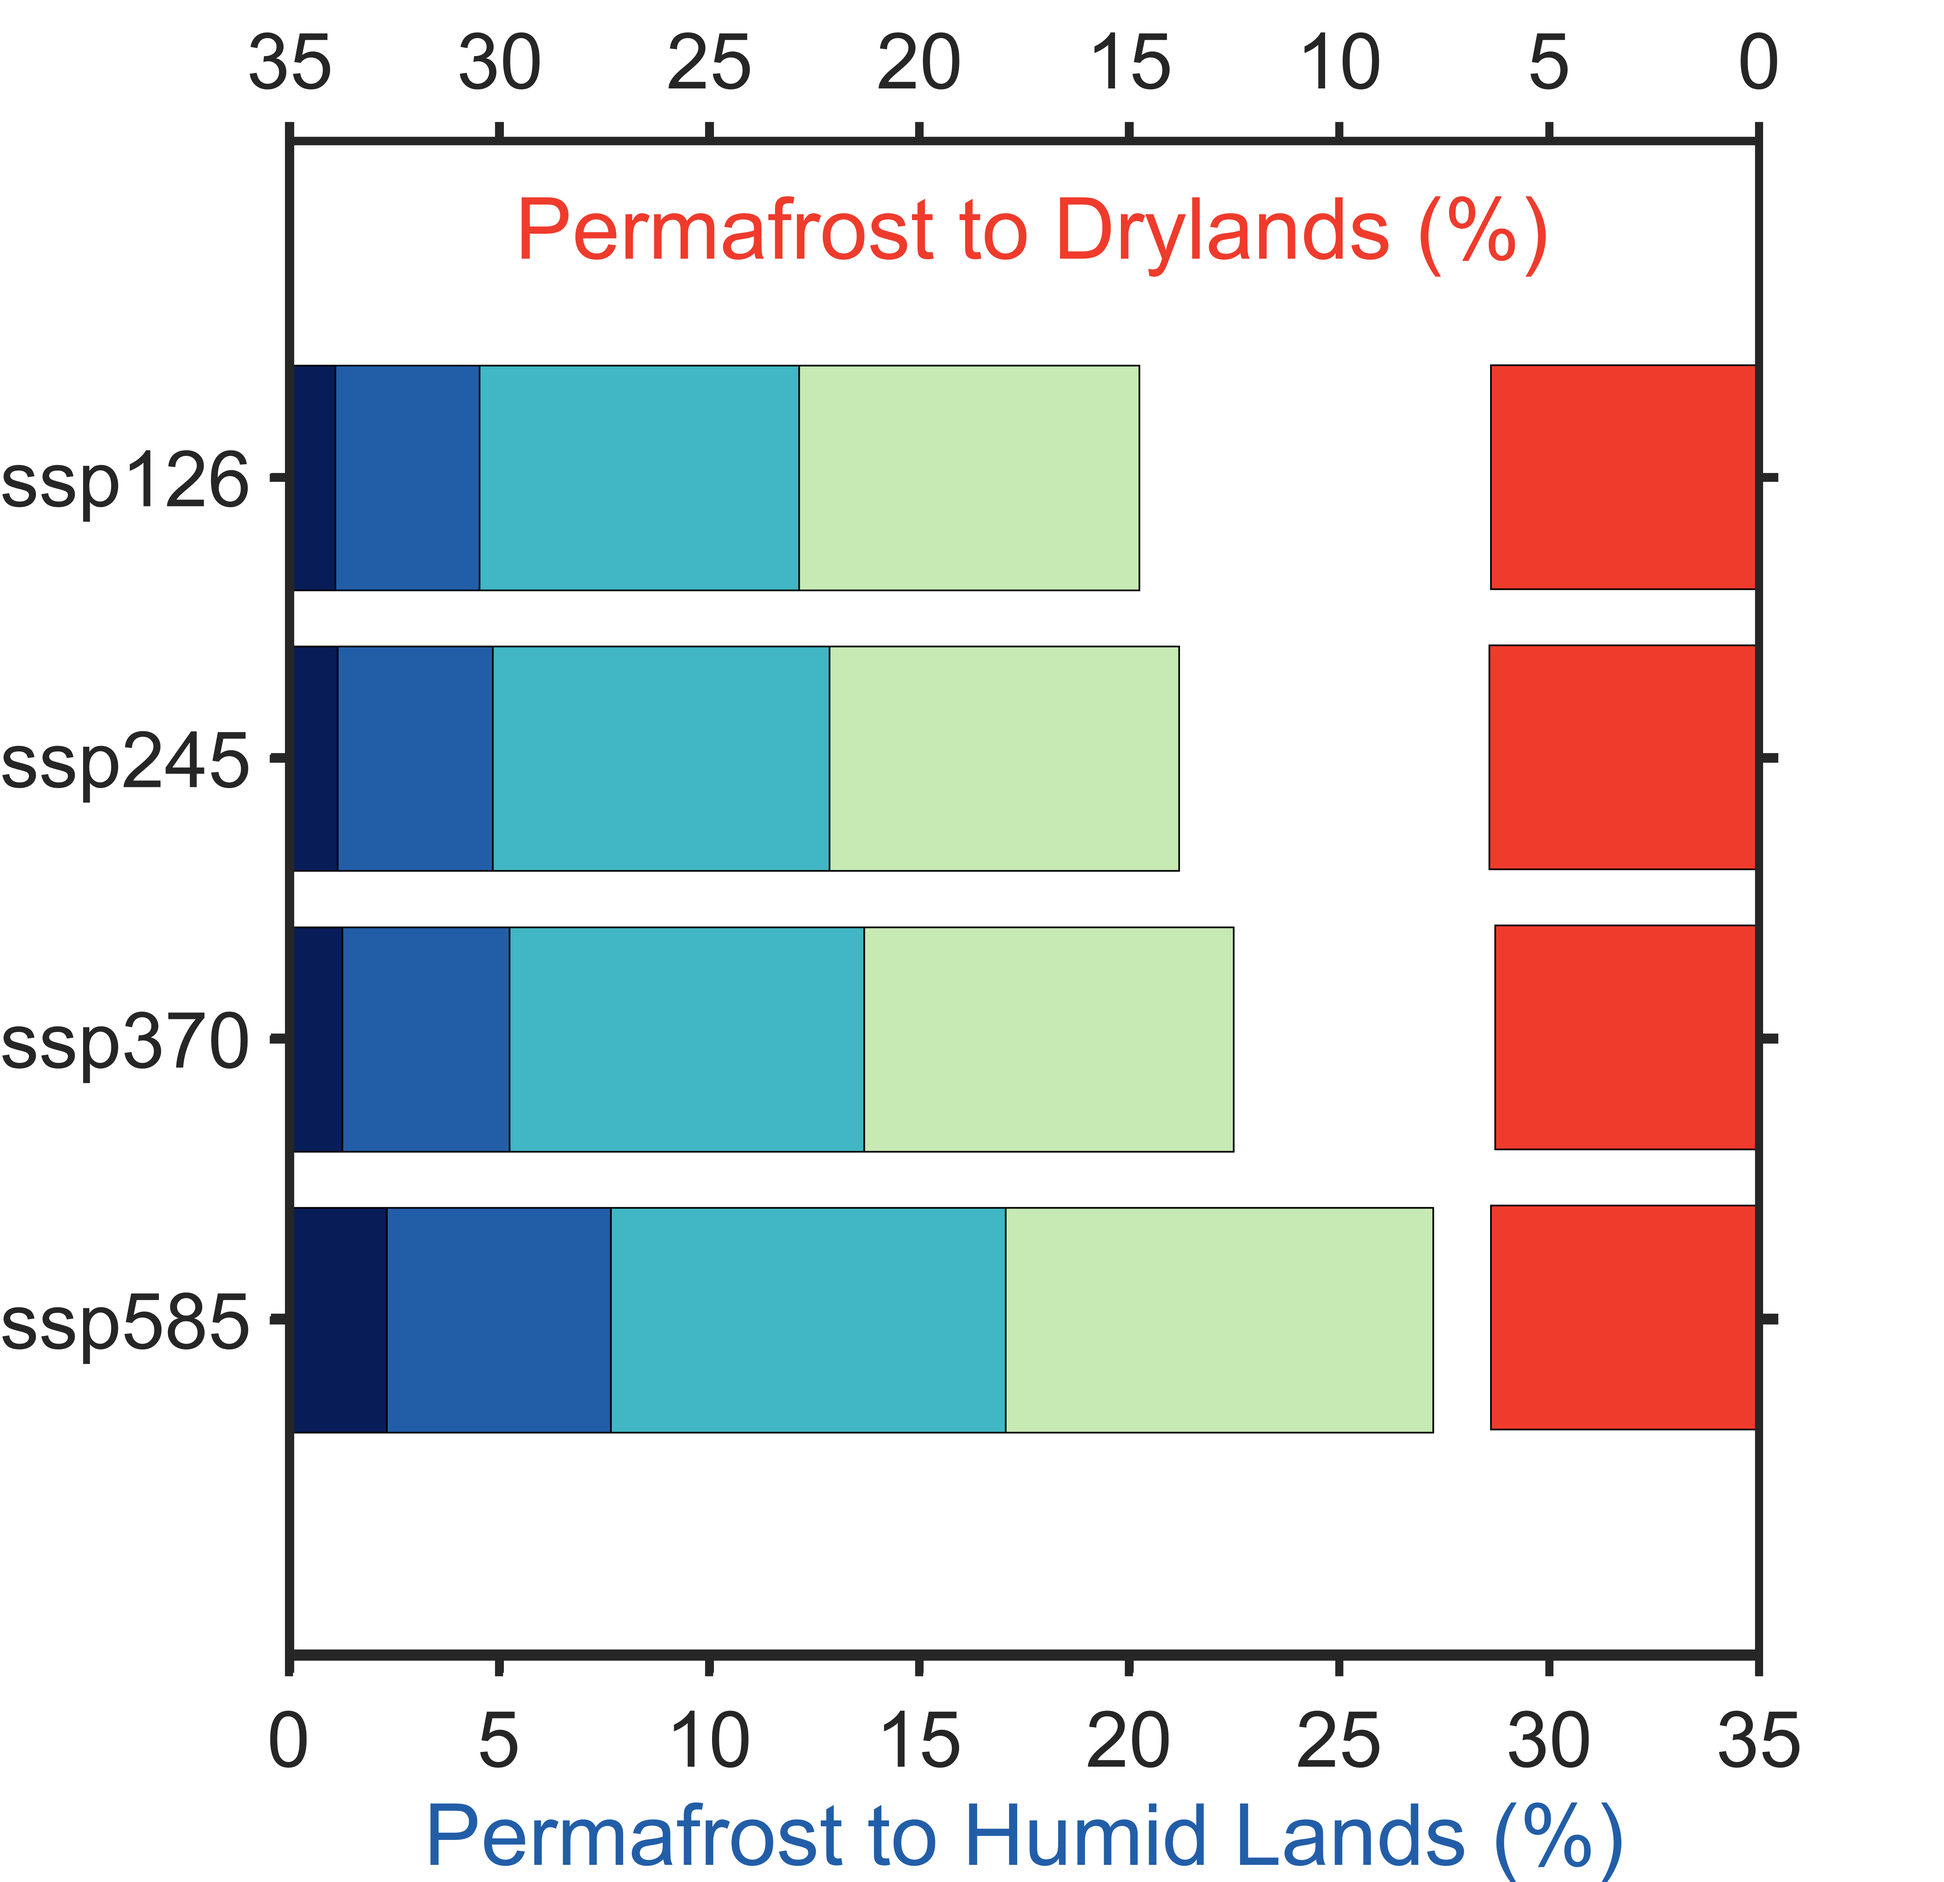
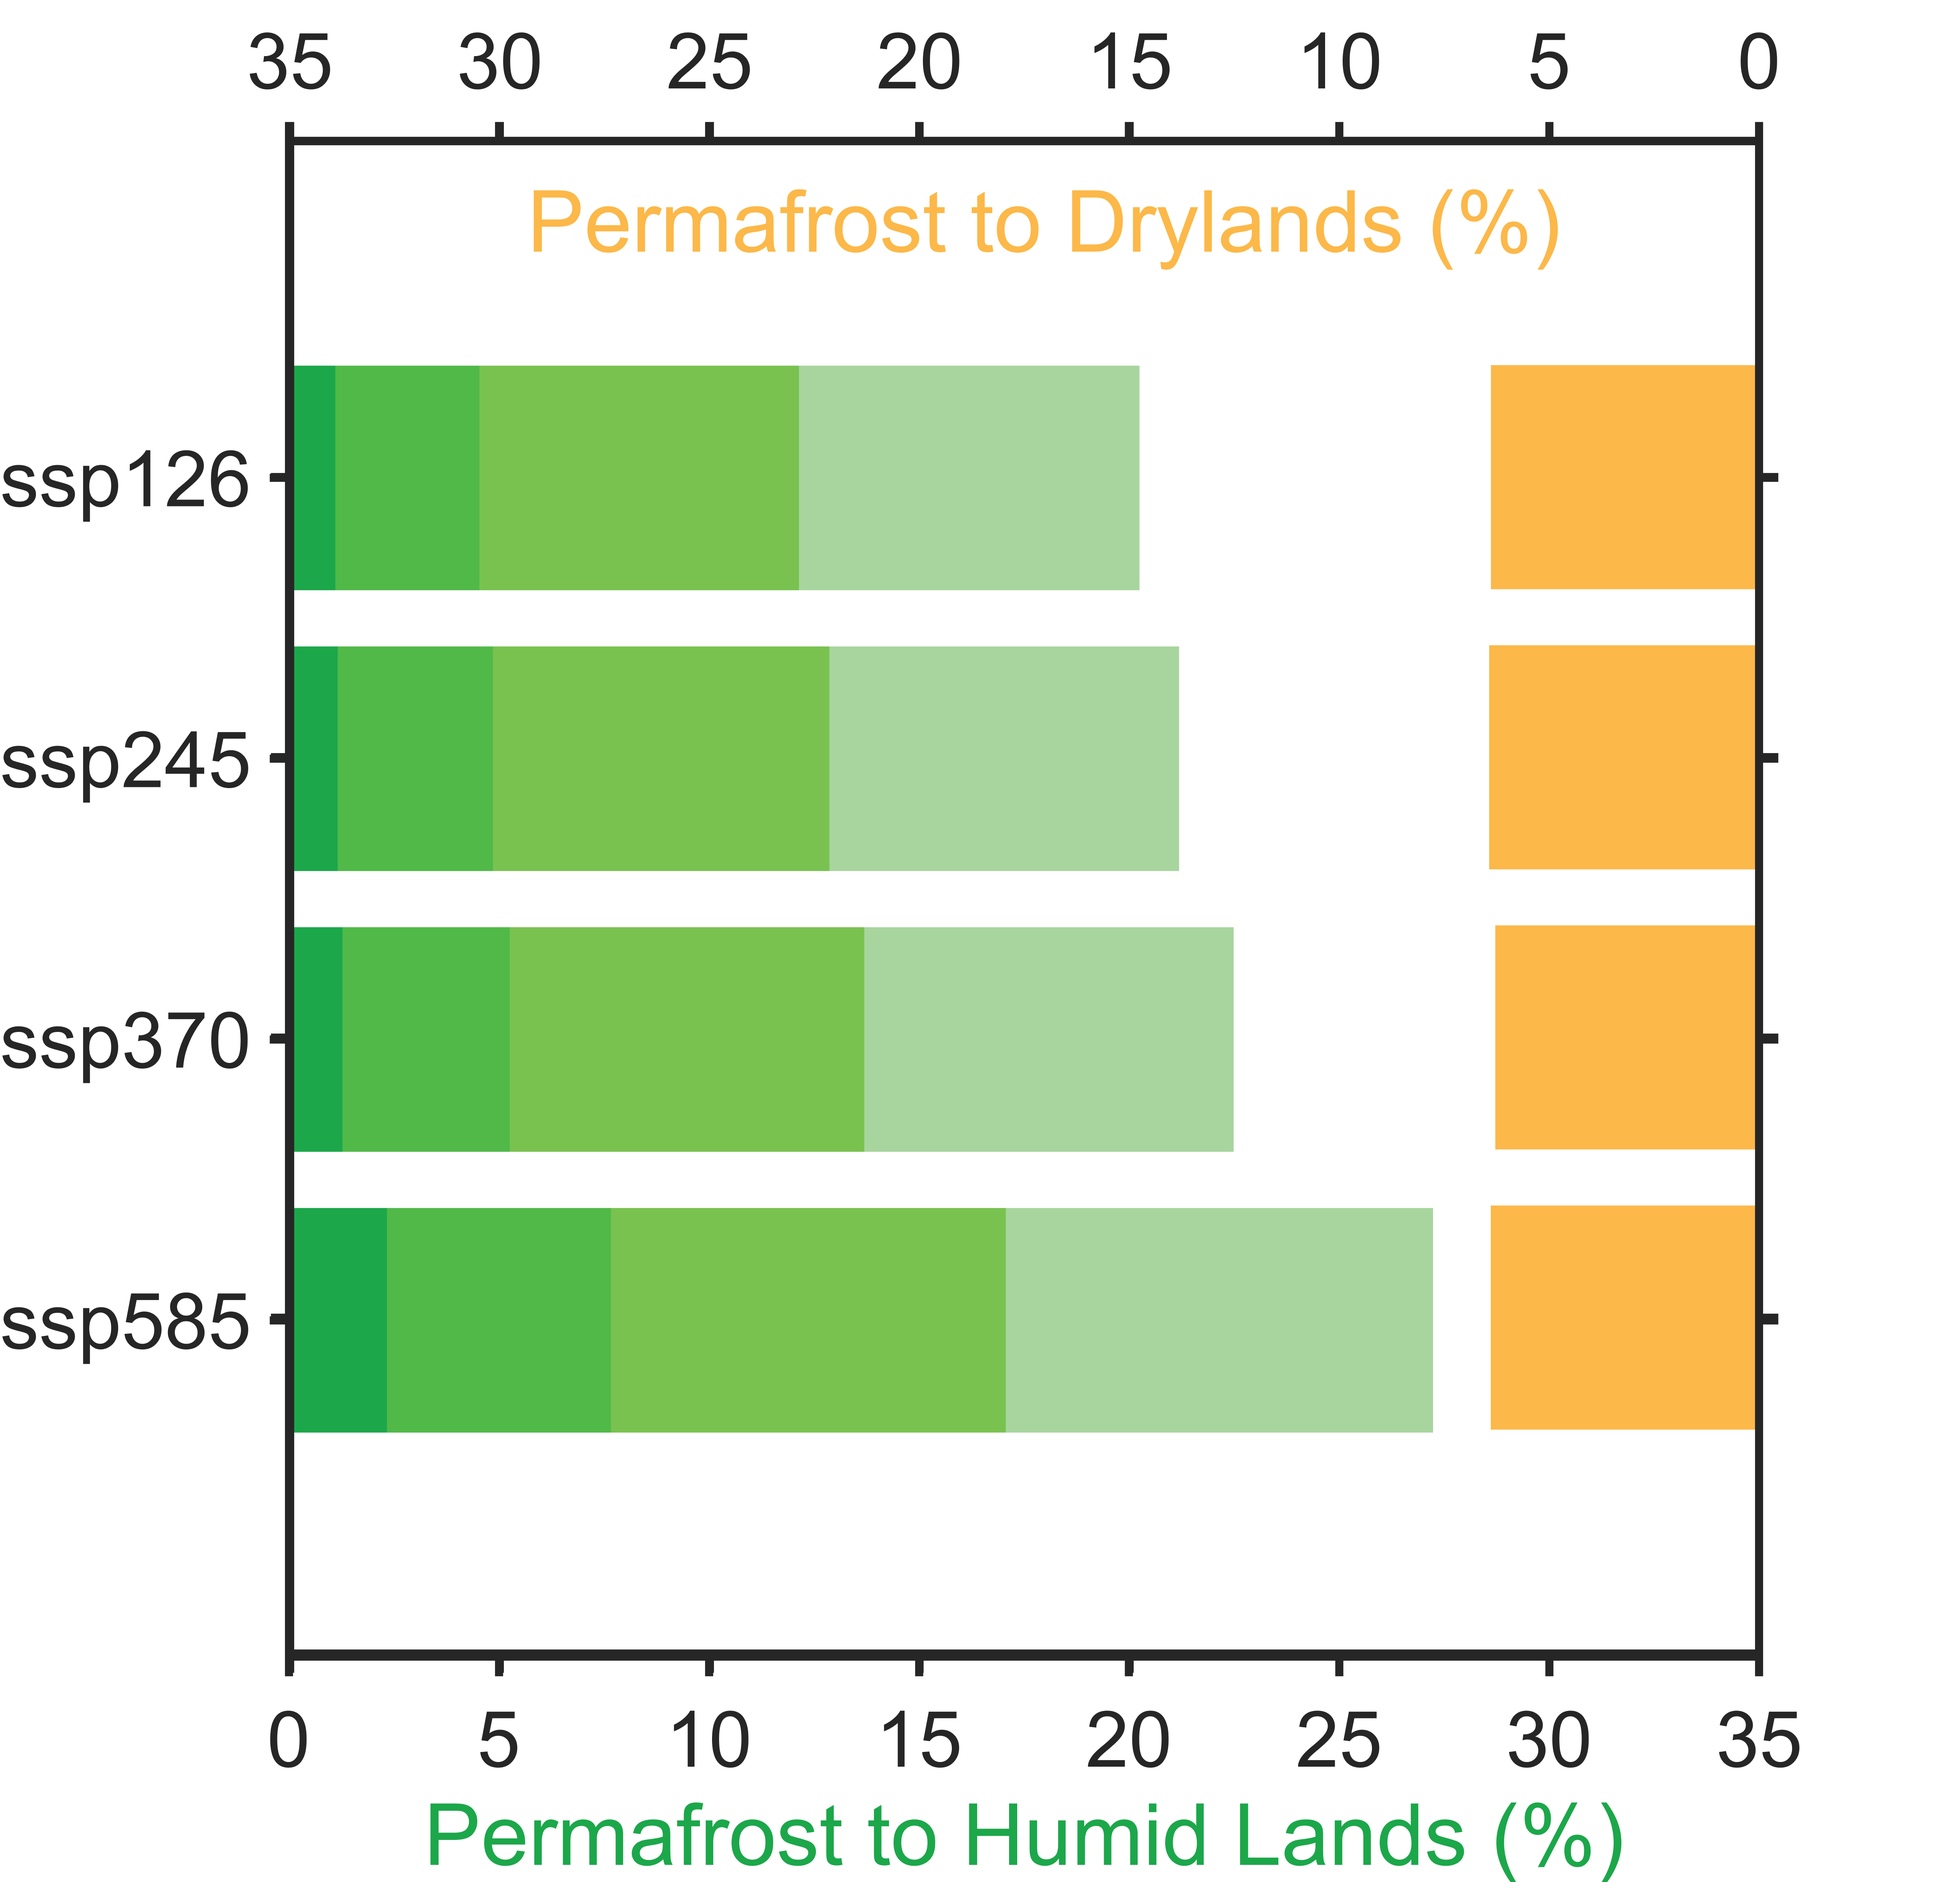
Fig1b

diff --git a/6_DrawFigure/Fig1b_Plotting.m b/6_DrawFigure/Fig1b_Plotting.m
@@ -221,23 +221,23 @@ end
 
 %% Plotting As of 2070-2099, How much historical Permafrost will change to Humid & Dry lands
 H_Bar = bar(Cold_Humid,'stacked');
-H_Bar(1).FaceColor = [8,29,88]./255;
-H_Bar(2).FaceColor = [34,94,168]./255;
-H_Bar(3).FaceColor = [65,182,196]./255;
-H_Bar(4).FaceColor = [199,233,180]./255;
+H_Bar(1).FaceColor = [28,167,74]./255; H_Bar(1).EdgeColor = 'none';
+H_Bar(2).FaceColor = [80,185,72]./255; H_Bar(2).EdgeColor = 'none';
+H_Bar(3).FaceColor = [121,194,80]./255; H_Bar(3).EdgeColor = 'none';
+H_Bar(4).FaceColor = [168,213,158]./255; H_Bar(4).EdgeColor = 'none';
 set(gca,'View',[90,90],'xTickLabel',['ssp126';'ssp245';'ssp370';'ssp585'],...
     'ylim',[0,35],'yTick',[0:5:35],...
     'FontSize',24,'FontName','Arial','LineWidth',2.5,'TickDir','out')
-ylabel('Permafrost to Humid Lands (%)','Color',[34,94,168]./255)
+ylabel('Permafrost to Humid Lands (%)','Color',[28,167,74]./255)
 
 disp('Adjust Figure Location and Press Enter to Continue')
 pause()
 
 axes('position', get(gca,'Position'));
-bar(flipud(Cold_Dry) , 'FaceColor' , [239,59,44]./255)
+bar(flipud(Cold_Dry) , 'FaceColor' , [252,184,73]./255 , 'EdgeColor' , 'none')
 set(gca,'View',[-90,90],'xTickLabel','',...
     'ylim',[0,35],'yTick',[0:5:35],'FontSize',24,'FontName','Arial',...
     'LineWidth',2.5,'TickDir','out','yaxislocation','right')
-ylabel('Permafrost to Drylands (%)','Color',[239,59,44]./255)
+ylabel('Permafrost to Drylands (%)','Color',[252,184,73]./255)
 set(gca,'color','none');
 end
